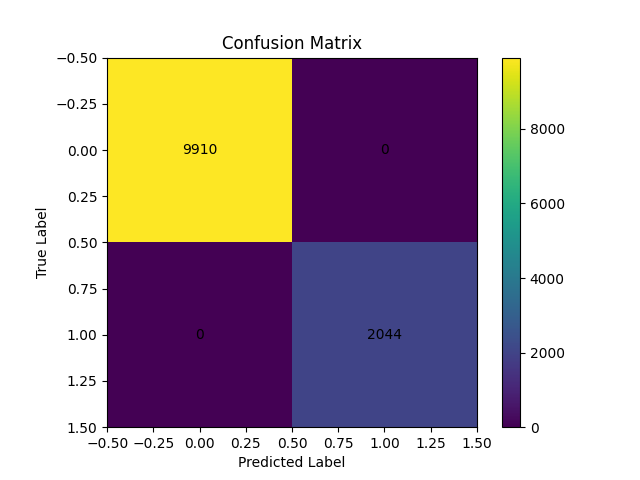
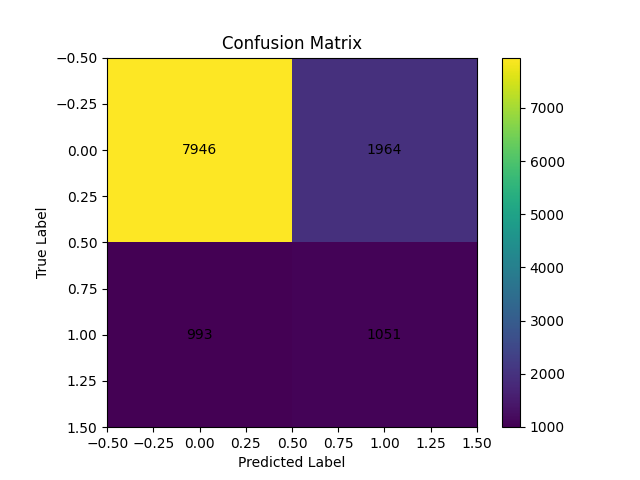
ml: fixed data leakage issue

diff --git a/train.py b/train.py
@@ -53,6 +53,11 @@ def clean_dataset(df, logger):
         "last_credit_pull_d",
         "last_fico_range_high",
         "last_fico_range_low",
+        "grade",
+        "sub_grade",
+        "int_rate",
+        "issue_d",
+        "earliest_cr_line"
     ]
 
     df = df.drop(columns=[c for c in leakage_cols if c in df.columns])
@@ -178,8 +183,10 @@ def main():
     df = clean_dataset(df, logger)
 
     # split features and target
-    X = df.drop(columns=["default"])
+    X = df.drop(columns=["default", "loan_status"])
     y = df["default"]
+
+    logger.info(f"Columns in X: {list(X.columns)[:10]}")
 
     # create stratified splits
     X_train, X_val, X_test, y_train, y_val, y_test = split_dataset(X, y, logger)
